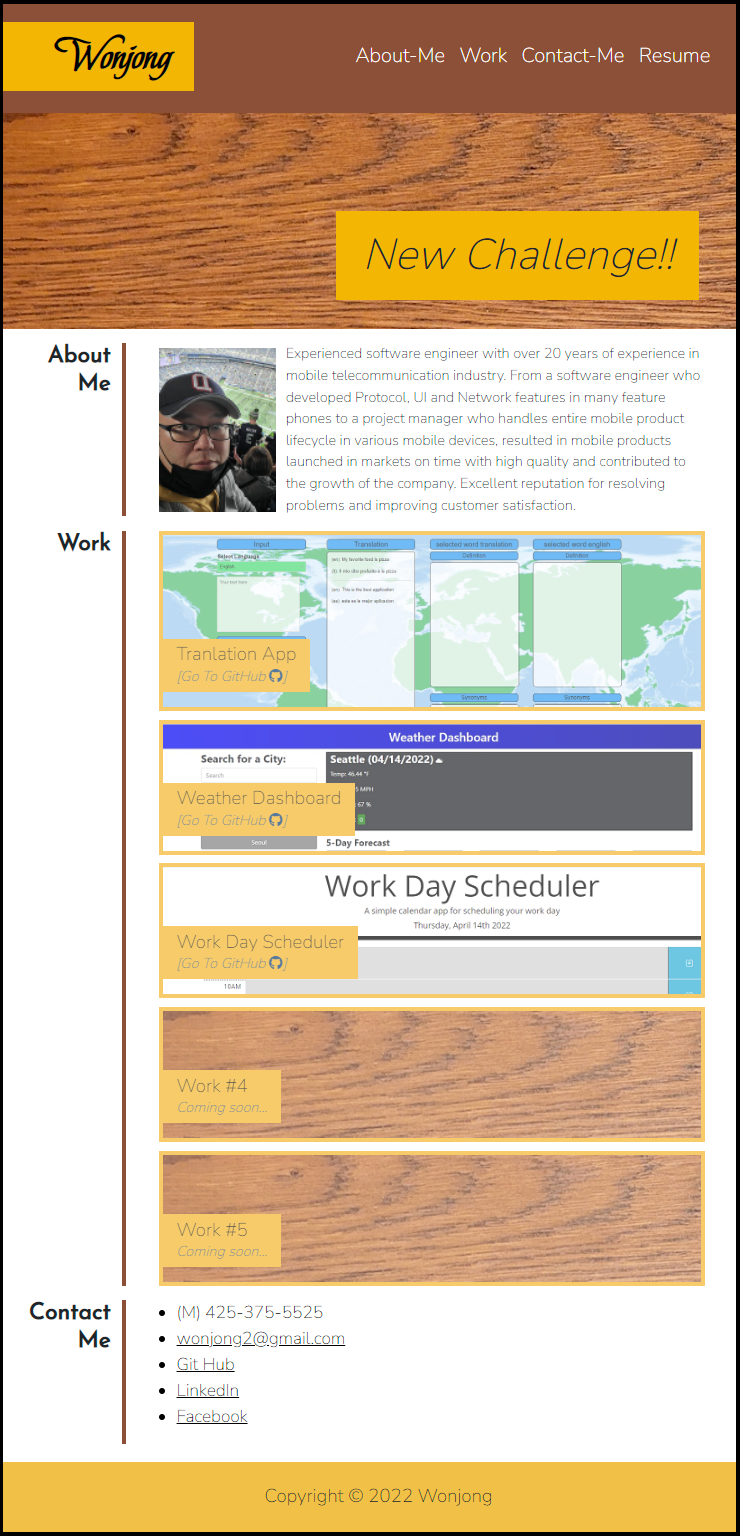
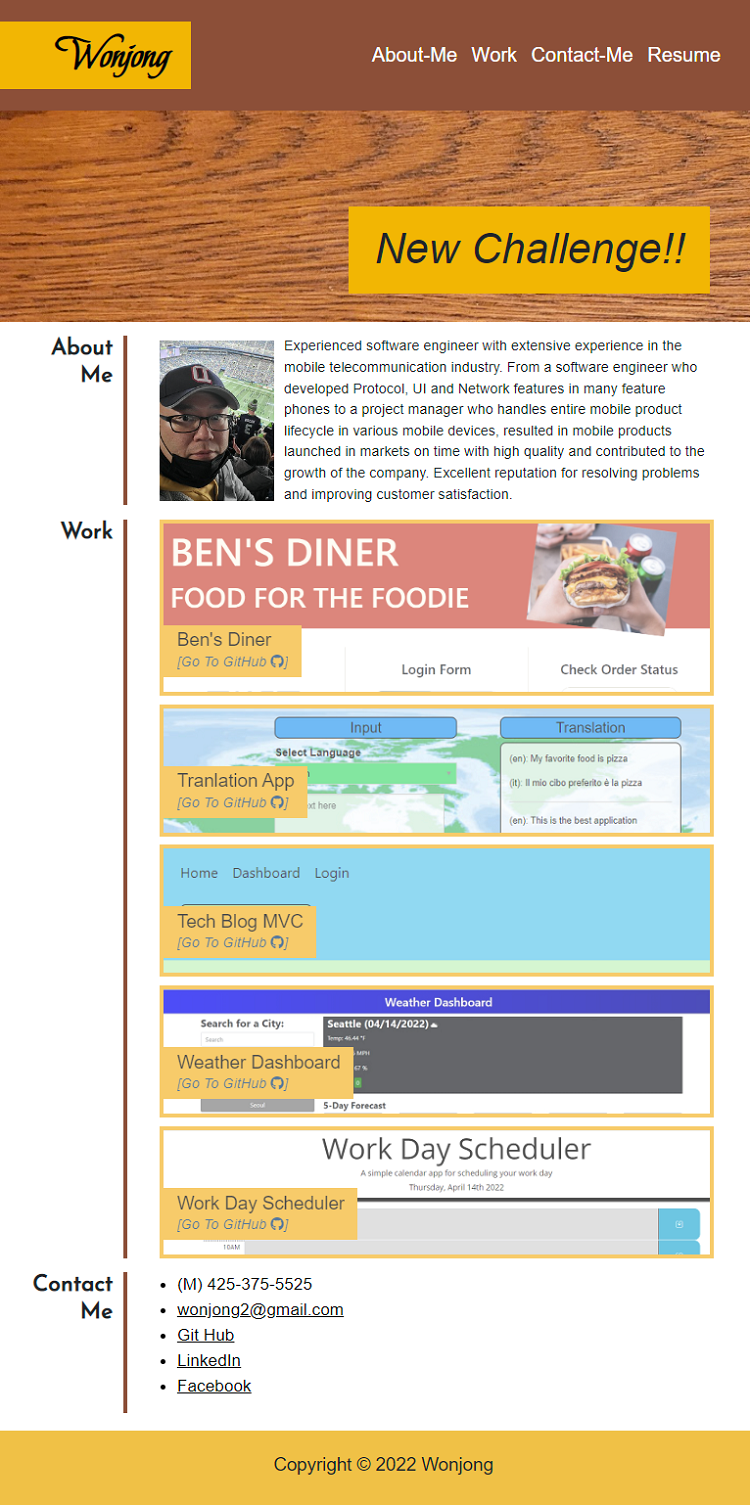
Update README.md file

diff --git a/README.md b/README.md
@@ -1,5 +1,7 @@
 # Wonjong's Portfolio
 
+[![License: MIT](https://img.shields.io/badge/License-MIT-yellow.svg)](https://opensource.org/licenses/MIT)
+
 ## Description
 
 This Web-page Provides information about me, Wonjong, such as my introduction, work output, contact info. and a resume.
@@ -7,45 +9,54 @@ This Web-page Provides information about me, Wonjong, such as my introduction, w
 It will be developed and improved over and over.
 
 < 1st implementation, 3/1 >
-- Use @Media Query for Responsive Web Design
-- Use Flexbox to organize this web page
-- Use Pseudo class to check 'hover' state and change style properly
-- Use CSS variables to handle border/background color efficiently
-- Use 'transition' property to make the effect when the user's mouse moves over the links.
+
+-   Use @Media Query for Responsive Web Design
+-   Use Flexbox to organize this web page
+-   Use Pseudo class to check 'hover' state and change style properly
+-   Use CSS variables to handle border/background color efficiently
+-   Use 'transition' property to make the effect when the user's mouse moves over the links.
 
 < 2nd implementation, 4/16 >
-- Use Bootstrap for UI configuration
-- Use JavaScript to handle 'Click' event on the Work section
-- Use Google fonts
-- Add the GitHub link to each works
-- Use Font Awesome for the GitHub icon
-- Update the Resume with the latest information
+
+-   Use Bootstrap for UI configuration
+-   Use JavaScript to handle 'Click' event on the Work section
+-   Use Google fonts
+-   Add the GitHub link to each works
+-   Use Font Awesome for the GitHub icon
+-   Update the Resume with the latest information
+
+< 3rd change, 6/16 >
+
+-   Update 'Work' section
+-   Update 'Resume' file
+-   Update README.md file
 
 ## Web Site's URL
 
-- Wonjong's Portfolio : 
-https://wonjong2.github.io/Wonjong_Portfolio/
+-   Wonjong's Portfolio :
+    https://wonjong2.github.io/Wonjong_Portfolio/
 
 ## Git Hub URL for this Web Site
-- wonjong2/Wonjong_Portfolio : https://github.com/wonjong2/Wonjong_Portfolio
+
+-   wonjong2/Wonjong_Portfolio : https://github.com/wonjong2/Wonjong_Portfolio
 
 ## Usage
 
-- When a user clicks one of the links in the navigation, then the UI scrolls to the corresponding section.
-- When a user clicks one of the images in the Work section, then a user is taken to that deployed application. 
-- When a user clicks area of "[Go To GitHub]", then a user is taken to the repository of it.
-- __Simple Demo__ : https://watch.screencastify.com/v/LhRQBXJ3dNgIPLOZt9Hq
+-   When a user clicks one of the links in the navigation, then the UI scrolls to the corresponding section.
+-   When a user clicks one of the images in the Work section, then a user is taken to that deployed application.
+-   When a user clicks area of "[Go To GitHub]", then a user is taken to the repository of it.
+-   **Simple Demo** : https://watch.screencastify.com/v/LhRQBXJ3dNgIPLOZt9Hq
 
 Please see the screenshots of the layout change on this Website.
 
-- Layout 1 (Width >= 1000px) <br>
+-   Layout 1 (Width >= 1000px) <br>
     ![Large layout](assets/images/desktop.png)
 
-- Layout 2 (1000px > Width >= 768px) <br>
-    ![Middle Layout](assets/images/820px.png) 
+-   Layout 2 (1000px > Width >= 768px) <br>
+    ![Middle Layout](assets/images/820px.png)
 
-- Layout 3 (768px > Width ) <br>
-    ![Small Layout](assets/images/414px.png) 
+-   Layout 3 (768px > Width ) <br>
+    ![Small Layout](assets/images/414px.png)
 
 ## License
 
@@ -58,5 +69,3 @@ Permission is hereby granted, free of charge, to any person obtaining a copy of 
 The above copyright notice and this permission notice shall be included in all copies or substantial portions of the Software.
 
 THE SOFTWARE IS PROVIDED "AS IS", WITHOUT WARRANTY OF ANY KIND, EXPRESS OR IMPLIED, INCLUDING BUT NOT LIMITED TO THE WARRANTIES OF MERCHANTABILITY, FITNESS FOR A PARTICULAR PURPOSE AND NONINFRINGEMENT. IN NO EVENT SHALL THE AUTHORS OR COPYRIGHT HOLDERS BE LIABLE FOR ANY CLAIM, DAMAGES OR OTHER LIABILITY, WHETHER IN AN ACTION OF CONTRACT, TORT OR OTHERWISE, ARISING FROM, OUT OF OR IN CONNECTION WITH THE SOFTWARE OR THE USE OR OTHER DEALINGS IN THE SOFTWARE.
-
-
